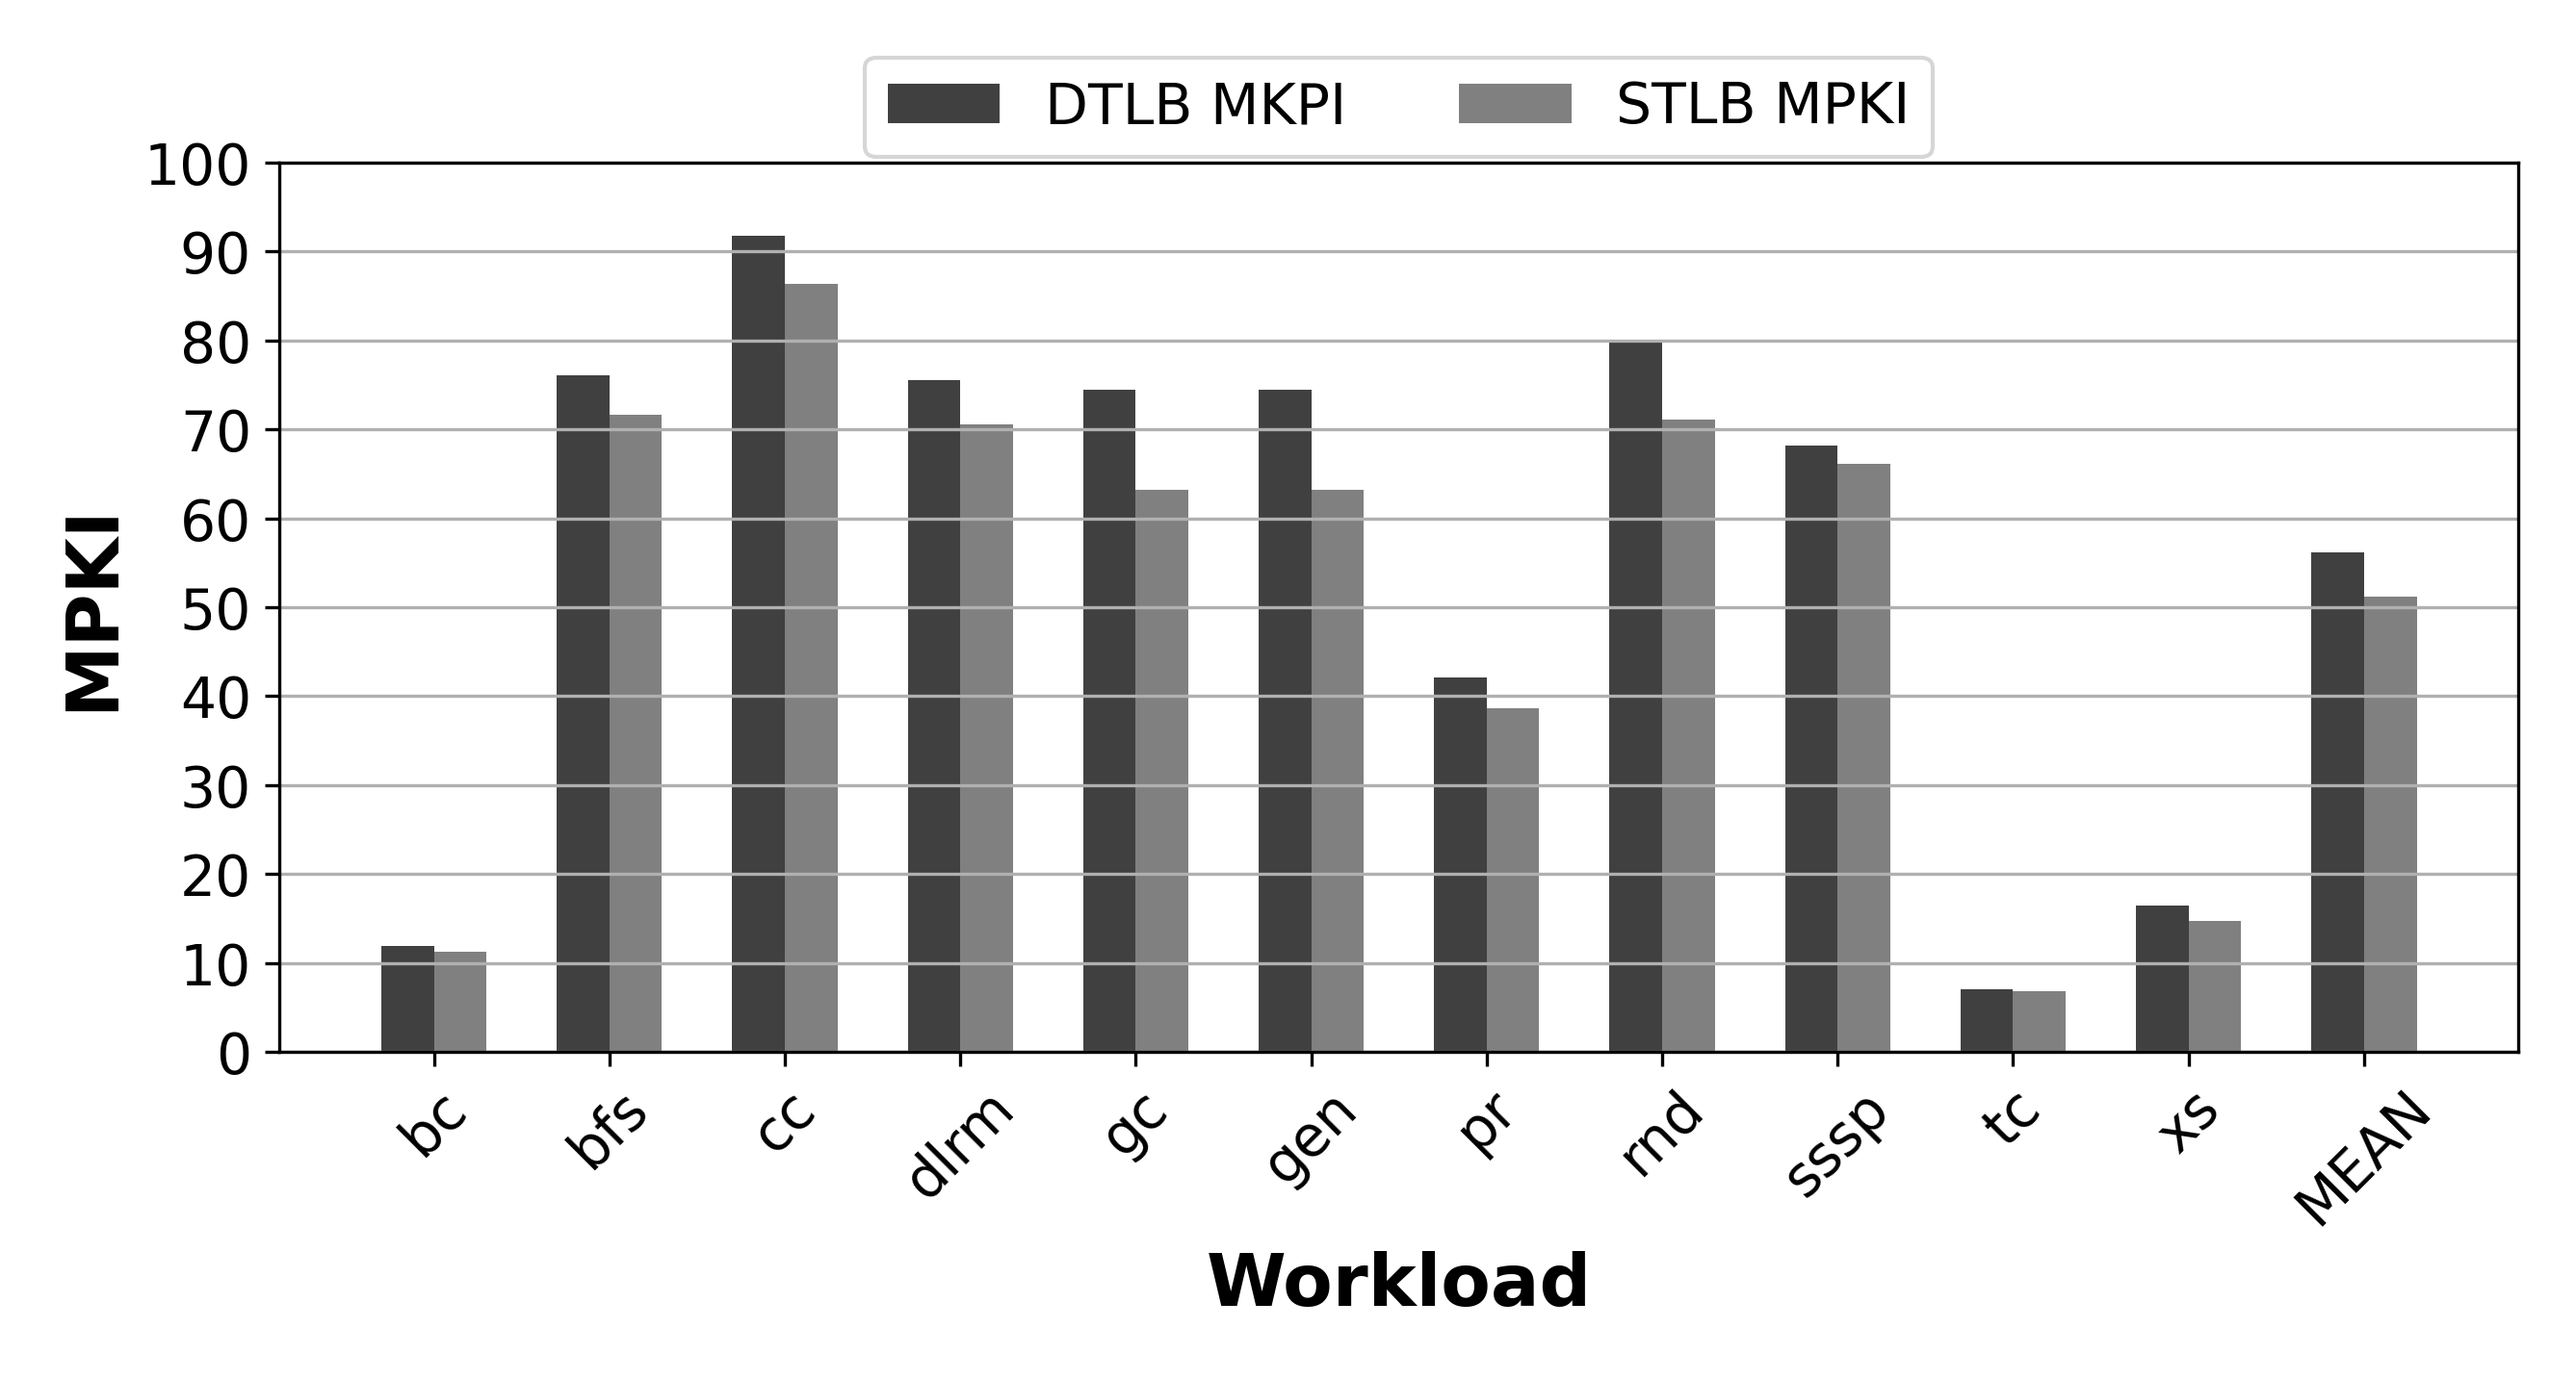
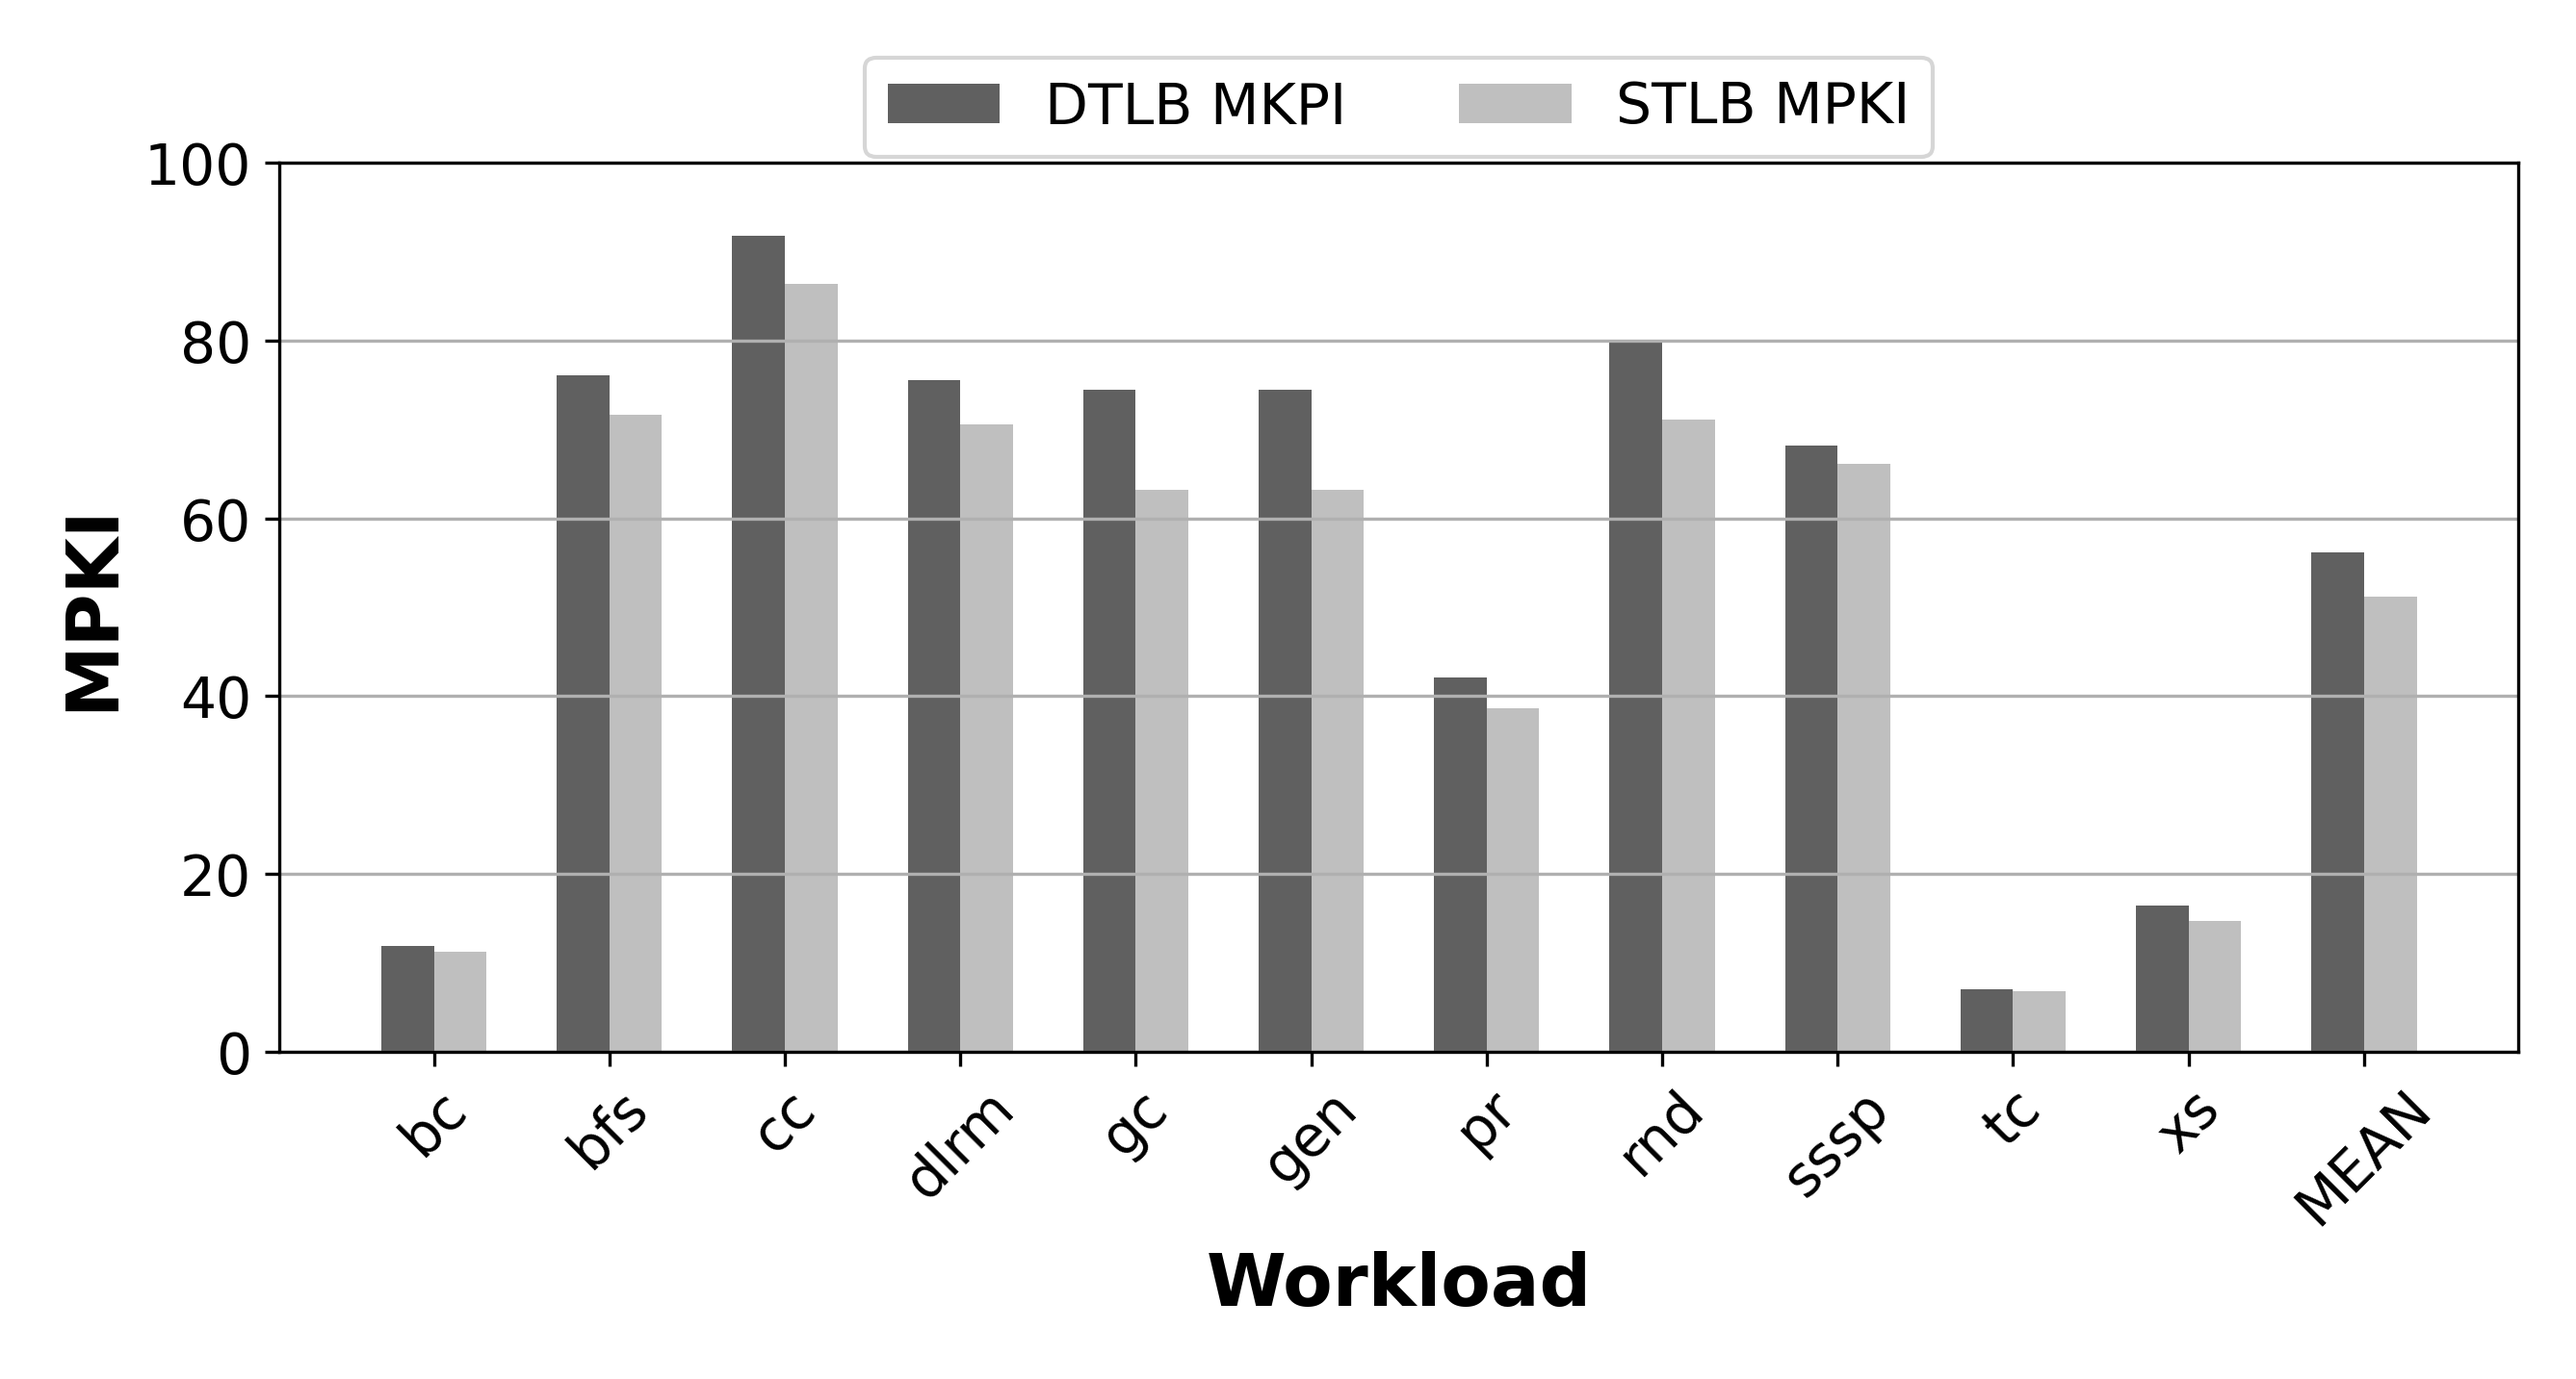
Added new plots

diff --git a/ploting/plot.py b/ploting/plot.py
@@ -3,11 +3,11 @@ import matplotlib.pyplot as plt
 import numpy as np
 
 X_TITLE = 'Workload'
-Y_TITLE = 'Speedup'
-Y_MIN = 0.5
-Y_MAX = 1.9
-FILE_NAME = 'scope'
-Y_TICKS = 0.2
+Y_TITLE = 'STLB Miss Penalty (Cycles)'
+Y_MIN = 0
+Y_MAX = 200
+FILE_NAME = 'stlb_mp'
+Y_TICKS = 20
 
 
 # Read the CSV data into a DataFrame
@@ -17,7 +17,7 @@ df = pd.read_csv('csvs/' + FILE_NAME + '.csv')
 df.set_index('workload', inplace=True)
 
 # Generate a range of monochrome colors
-colors = [str(0.25 * i) for i in range(1, len(df.columns) + 1)]
+colors = [str(0.75/(len(df.columns)) * i) for i in range(1, len(df.columns) + 1)]
 
 # Determine the number of columns to set figure width accordingly
 fig_width = max(10, 3.5 * len(df.columns))
